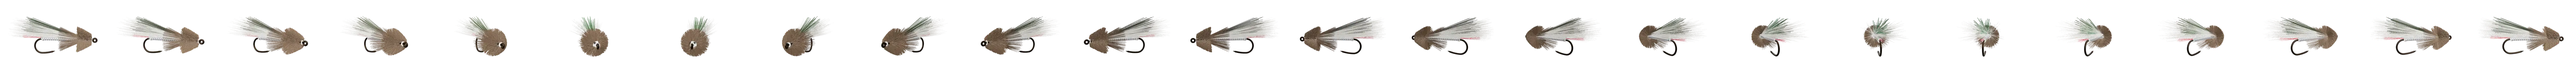
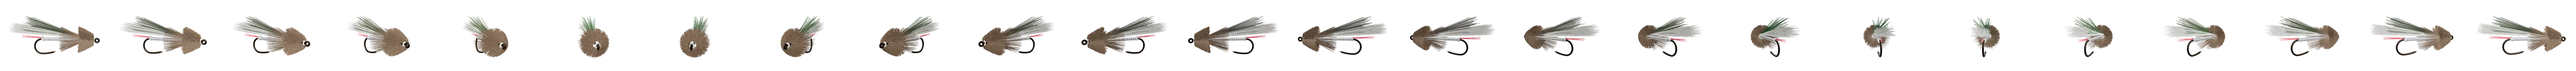
Catalog: Mickey Finn, Cat's Whisker, Stoat's Tail; fuller, self-shaded marabou

diff --git a/src/render/pieces.ts b/src/render/pieces.ts
@@ -313,7 +313,7 @@ const BUNDLE = {
   // A biot is a stiff, broad barb: wide at the base, tapering to a point.
   biot: { radius: 0.028, tip: 0.85, tipShade: 0.85, spread: 0.02, flare: 0, sideFlare: 0.6, lengthJitter: 0 },
   // Marabou is a dense, soft plume: many fine fibres, tapering out.
-  marabou: { radius: 0.008, tip: 0.2, tipShade: 0.85, spread: 0.3, flare: 0.06, sideFlare: 0.25, lengthJitter: 0.45 },
+  marabou: { radius: 0.016, tip: 0.3, tipShade: 0.6, spread: 0.14, flare: 0.04, sideFlare: 0.15, lengthJitter: 0.45 },
   // CDC is soft and fluffy: many fine, uneven barbs, each with tiny barbules (added below).
   cdc: { radius: 0.003, tip: 0.3, tipShade: 0.85, spread: 0.5, flare: 0.12, sideFlare: 0.5, lengthJitter: 0.45 },
   flash: { radius: 0.0025, tip: 1, tipShade: 1, spread: 0.2, flare: 0.05, sideFlare: 0.3, lengthJitter: 0.2 },
@@ -409,18 +409,24 @@ function bundleView(piece: BundlePiece, surfaces: Surfaces, space: ShankSpace): 
       radius: radialHair && piece.cut ? spec.radius * 1.6 : spec.radius, shade: 0.85 + 0.3 * rand(),
     });
   }
-  if (piece.look === "cdc") {
-    // Barbules: short, fine fibres all along each barb, which give CDC its fluff.
+  if (piece.look === "cdc" || piece.look === "marabou") {
+    // Barbules: short, fine fibres all along each barb, which give CDC and marabou their fluff.
     const barbs = list.slice();
+    const perBarb = piece.look === "cdc" ? 6 : 4;
     for (const f of barbs) {
-      for (let k = 0; k < 6; k++) {
+      for (let k = 0; k < perBarb; k++) {
         const t = 0.2 + 0.8 * rand();
         const base = f.base.clone().addScaledVector(f.dir, f.length * t);
         const dir = f.dir
           .clone()
           .add(new THREE.Vector3(rand() - 0.5, rand() - 0.5, rand() - 0.5).multiplyScalar(1.6))
           .normalize();
-        list.push({ u: f.u, base, dir, length: 0.05 + 0.06 * rand(), radius: 0.0018, shade: f.shade });
+        // Marabou's barbules are long and soft enough to fill the plume out into a cloud.
+        const fluff = piece.look === "marabou";
+        list.push({
+          u: f.u, base, dir, length: fluff ? 0.1 + 0.2 * rand() : 0.05 + 0.06 * rand(),
+          radius: fluff ? 0.004 : 0.0018, shade: f.shade,
+        });
       }
     }
   }

diff --git a/src/render/materials.ts b/src/render/materials.ts
@@ -66,6 +66,8 @@ function create(look: Look | "stem" | "metal", color: string, vertexColors: bool
     case "biot":
       return new THREE.MeshStandardMaterial({ color, roughness: 0.45, ...fibres });
     case "marabou":
+      // A plume shades itself: even white marabou reads grey-white, never paper-white.
+      return new THREE.MeshStandardMaterial({ color: new THREE.Color(color).multiplyScalar(0.78), roughness: 1, ...fibres });
     case "cdc":
       return new THREE.MeshStandardMaterial({ color, roughness: 1, ...fibres });
     case "flash":
